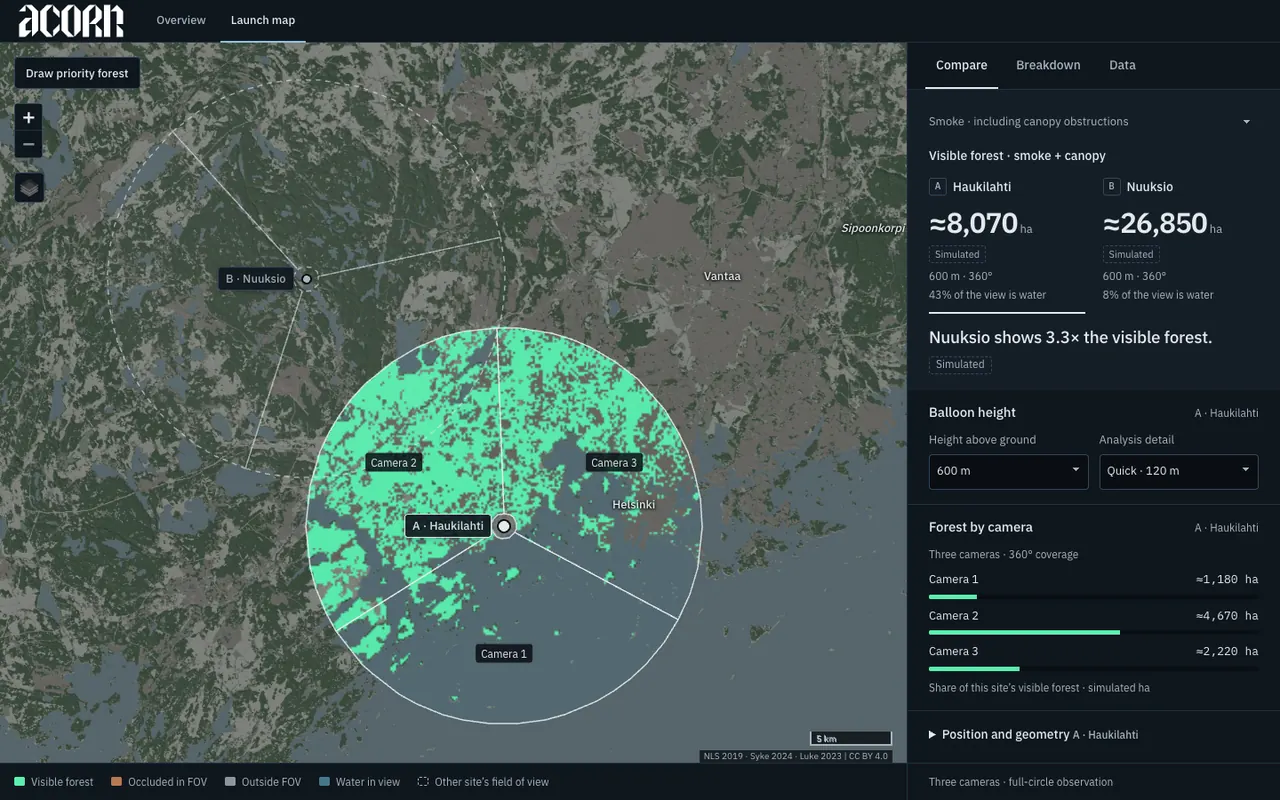
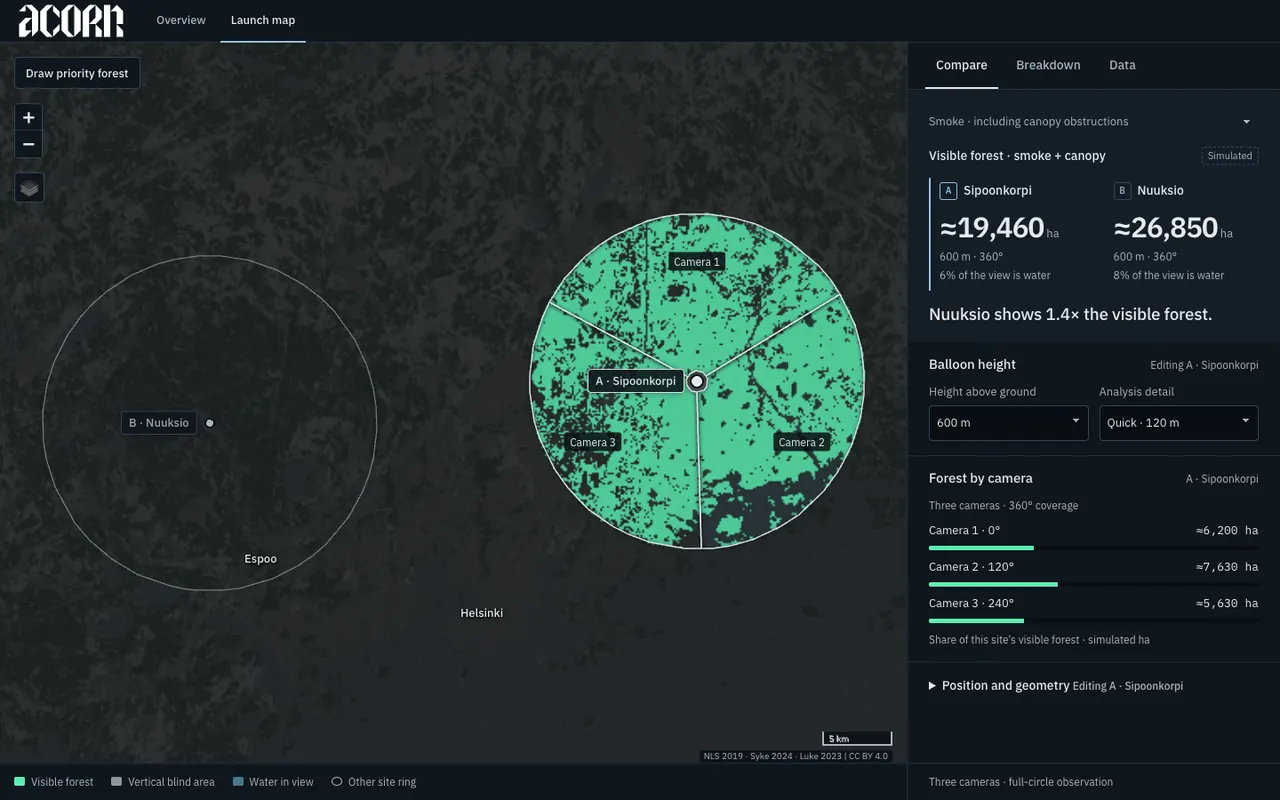
feat(map): clarify coverage hierarchy and mobile comparison

diff --git a/placement/static/app.js b/placement/static/app.js
@@ -30,7 +30,7 @@ function later(delay=600,indices=[selected]){markStale(indices);clearTimeout(tim
 
 // --- Controls ----------------------------------------------------------------
 function readControls(){if(!candidates.length)return;const c=candidates[selected];c.lat=+$('lat').value;c.lon=+$('lon').value;c.height=+$('height').value;c.resolution=$('resolution').value;c.max_range=+$('max-range').value*1000;c.smoke_height=+$('smoke-height').value;c.cameras.forEach(cam=>{cam.tilt=+$('tilt').value;cam.vfov=+$('vfov').value});}
-function showControls(){const c=candidates[selected];if(!c)return;$('lat').value=c.lat.toFixed(5);$('lon').value=c.lon.toFixed(5);$('height').value=String(c.height);$('resolution').value=c.resolution;$('max-range').value=c.max_range/1000;$('smoke-height').value=c.smoke_height;$('tilt').value=c.cameras[0].tilt;$('vfov').value=c.cameras[0].vfov;for(const id of ['settings-site','height-site'])$(id).textContent=letters[selected]+' · '+siteName(c);}
+function showControls(){const c=candidates[selected];if(!c)return;$('lat').value=c.lat.toFixed(5);$('lon').value=c.lon.toFixed(5);$('height').value=String(c.height);$('resolution').value=c.resolution;$('max-range').value=c.max_range/1000;$('smoke-height').value=c.smoke_height;$('tilt').value=c.cameras[0].tilt;$('vfov').value=c.cameras[0].vfov;for(const id of ['settings-site','height-site'])$(id).textContent='Editing '+letters[selected]+' · '+siteName(c);}
 function selectSite(i,reveal=true){if(i===selected||!candidates[i])return;readControls();selected=i;showControls();render();if(reveal)revealSite(i);}
 
 // --- Headline metric: total visible forest, or priority forest while a polygon is active.
@@ -42,7 +42,7 @@ function renderSummary(){
  const figures=$('headline-figures');figures.replaceChildren();
  candidates.forEach((c,i)=>{const r=results[i],m=r?.metrics?.[scenario],block=el('div','headline-site'+(i===selected?' selected':'')+(r&&dirty.has(i)?' stale':''));
   const b=el('button','headline-name');b.type='button';b.append(el('span','cand-letter mono',letters[i]),document.createTextNode(siteName(c)));b.setAttribute('aria-pressed',String(i===selected));b.addEventListener('click',()=>selectSite(i));block.append(b);
-  const shown=r?area(headlineValue(r),r.resolution_m):'—',n=addText(block,'div',shown,'headline-value'+(shown==='—'?' missing':''));if(shown!=='—'){addText(n,'small',' ha');localized(addText(n,'small','','simulation-label'),'Simulated','Simülasyon');}
+  const shown=r?area(headlineValue(r),r.resolution_m):'—',n=addText(block,'div',shown,'headline-value'+(shown==='—'?' missing':''));if(shown!=='—')addText(n,'small',' ha');
   if(r)localized(addText(block,'p','','headline-sub'),`${fmt(r.input.height)} m · 360°`,`${fmt(r.input.height)} m · 360°`);else localized(addText(block,'p','','headline-sub'),'Not computed','Hesaplanmadı');
   if(r&&priorityMode&&M.valid(m?.visible_forest_ha))localized(addText(block,'p','','headline-sub'),`of ${area(m.visible_forest_ha,r.resolution_m)} ha visible forest in total`,`toplam görünür orman ${area(m.visible_forest_ha,r.resolution_m)} ha`);
   if(r&&M.valid(M.share(m)))localized(addText(block,'p','','headline-sub'),`${M.percent(M.share(m),'en')} of the view is water`,`Görülen alanda su payı: ${M.percent(M.share(m),'tr')}`);
@@ -51,7 +51,6 @@ function renderSummary(){
  if(values.every(M.valid)){const winner=values[0]>=values[1]?0:1,other=1-winner,high=values[winner],low=values[other],what=priorityMode?['visible priority forest','görünür öncelikli orman']:['visible forest','görünür orman'];
   localized($('verdict'),high===low?`Both sites show the same ${what[0]}.`:low>0?`${siteName(candidates[winner])} shows ${fmt(high/low,1)}× the ${what[0]}.`:`${siteName(candidates[winner])} shows more ${what[0]}.`,high===low?`İki konumda da aynı ${what[1]} görünüyor.`:low>0?`${siteName(candidates[winner])} konumunda ${fmt(high/low,1)} kat daha fazla ${what[1]} görünüyor.`:`${siteName(candidates[winner])} konumunda daha fazla ${what[1]} görünüyor.`);
  }else localized($('verdict'),busy&&!lastError?'The comparison appears when both sites are calculated.':'No comparison yet. Recalculate both sites to compare.',busy&&!lastError?'Karşılaştırma iki konum da hesaplandığında görünür.':'Henüz karşılaştırma yok. Karşılaştırmak için iki konumu yeniden hesaplayın.');
- if(values.every(M.valid))$('verdict').append(el('span','tag tag-sim verdict-simulation',tr('Simulated','Simülasyon')));
  const smoke=r=>r?.metrics?.canopy_smoke,ranked=comparable?[0,1].filter(i=>M.valid(smoke(results[i])?.visible_forest_ha)).sort((a,b)=>(priorityMode?(smoke(results[b]).priority_visible_ha??-Infinity)-(smoke(results[a]).priority_visible_ha??-Infinity):0)||smoke(results[b]).visible_forest_ha-smoke(results[a]).visible_forest_ha):[];
  if(ranked.length===2){const order=ranked.map((i,k)=>`${k+1} ${siteName(candidates[i])}`).join(', ');localized($('ranking'),`Ranking by ${priorityMode?'visible priority forest':'total visible forest'} (smoke-target scenario): ${order}`,`Sıralama, ${priorityMode?'görünür öncelikli orman':'toplam görünür orman'} (duman hedefi senaryosu): ${order}`);}else $('ranking').textContent='';
  const stale=[...dirty].some(i=>results[i]),missing=[0,1].filter(i=>!results[i]).map(i=>siteName(candidates[i])).join(', ');document.body.classList.toggle('stale',stale);
@@ -64,8 +63,8 @@ function renderAccounting(){
  const box=$('accounting');box.replaceChildren();const rows=results.map((r,i)=>({i,r,a:r?C.accounting(r.metrics?.[scenario],M.round,M.blind,r.resolution_m):null}));const max=Math.max(1,...rows.map(x=>x.a?.total).filter(M.valid));
  rows.forEach(({i,r,a})=>{const row=el('div','acc-row'+(i===selected?' selected':''));const head=el('div','acc-head');head.append(el('span','cand-letter mono',letters[i]),el('span','acc-name',siteName(candidates[i])),el('span','acc-total mono',a?fmt(a.total):'—'));row.append(head);
   const bar=el('div','acc-bar');if(a){for(const [key,cls] of [['visible','visible'],['occluded','occluded'],['outside','outside']]){const seg=el('i',cls);seg.style.width=(a[key]/max*100)+'%';seg.title=key;bar.append(seg);}}else bar.classList.add('empty');row.append(bar);
-  const legend=el('div','acc-values');if(a){for(const [key,en,turkish] of [['visible','Visible','Görünür'],['occluded','Occluded','Perdelenmiş'],['outside','Outside FOV','Görüş dışında']]){const s=el('span');s.append(el('i','sw '+key));localized(s.appendChild(el('span')),`${en} ${fmt(a[key])}`,`${turkish} ${fmt(a[key])}`);legend.append(s);}}else localized(legend,r?'Split not available':'Not computed',r?'Ayrım yok':'Hesaplanmadı');row.append(legend);box.append(row)});
- localized(addText(box,'p','','small'),'Forest inside the range disk. Total = visible + occluded in FOV + outside FOV.','Menzil diski içindeki orman. Toplam = görünür + görüş içinde perdelenmiş + görüş dışında.');
+  const legend=el('div','acc-values');if(a){for(const [key,en,turkish] of [['visible','Visible','Görünür'],['occluded','Occluded','Perdelenmiş'],['outside','Vertical blind area','Görüş dışında']]){if(a[key]===0)continue;const s=el('span');s.append(el('i','sw '+key));localized(s.appendChild(el('span')),`${en} ${fmt(a[key])}`,`${turkish} ${fmt(a[key])}`);legend.append(s);}}else localized(legend,r?'Split not available':'Not computed',r?'Ayrım yok':'Hesaplanmadı');row.append(legend);box.append(row)});
+ localized(addText(box,'p','','small'),'Forest in range · visible and unseen','Menzil diski içindeki orman. Toplam = görünür + görüş içinde perdelenmiş + görüş dışında.');
 }
 function renderCameras(){
  const result=results[selected],box=$('camera-breakdown');box.replaceChildren();
@@ -74,7 +73,8 @@ function renderCameras(){
  for(let i=0;i<3;i++){
   const value=result?.camera_breakdown?.[i]?.metrics?.[scenario]?.visible_forest_ha;
   const row=el('div','camera-result'),head=el('div','camera-result-head');
-  head.append(el('span','',camName(i)),el('span','mono',M.valid(value)?area(value,result.resolution_m)+' ha':'—'));
+  const camera=result?.input?.cameras?.[i],label=camName(i)+(camera?' · '+fmt((result.input.heading+camera.yaw)%360)+'°':'');
+  head.append(el('span','',label),el('span','mono',M.valid(value)?area(value,result.resolution_m)+' ha':'—'));
   row.append(head);const bar=el('div','camera-result-bar'),fill=el('i','visible');
   fill.style.width=(M.valid(value)&&total>0?100*value/total:0)+'%';bar.append(fill);row.append(bar);box.append(row);
  }
@@ -82,16 +82,27 @@ function renderCameras(){
 }
 
 // --- Table and notes -----------------------------------------------------------
-function appendRow(body,label,unit,values,cls=''){const row=el('tr',cls);[label,unit,...values].forEach((v,i)=>{const td=el(i===0?'th':'td','',v);if(i===0)td.scope='row';if(i===1)td.className='unit';if(v==='—')td.title='Not computed';row.append(td)});body.append(row);}
+function appendRow(body,label,unit,values,cls=''){
+ // Hide only measured values that round to zero at both sites. Missing stays “—”.
+ if(values.every(value=>value==='0'))return;
+ const row=el('tr',cls),heading=el('th','',label);heading.scope='row';if(unit)heading.append(el('small','metric-unit',' · '+unit));row.append(heading);
+ values.forEach(value=>{const td=el('td','',value);if(value==='—')td.title='Not computed';row.append(td)});body.append(row);
+}
 function renderTable(){
- const headers=$('comparison').querySelectorAll('thead th');candidates.forEach((c,i)=>headers[i+2].textContent=letters[i]+' · '+siteName(c));const body=$('comparison').querySelector('tbody');body.replaceChildren();
+ for(const id of ['comparison','more-comparison']){const headers=$(id).querySelectorAll('thead th');candidates.forEach((c,i)=>headers[i+1].textContent=letters[i]+' · '+siteName(c));$(id).querySelector('tbody').replaceChildren();}
+ const body=$('comparison').querySelector('tbody'),more=$('more-comparison').querySelector('tbody');
  const metrics=results.map(r=>r?.metrics?.[scenario]),res=results.map(r=>r?.resolution_m),split=metrics.map((m,i)=>M.blind(m,res[i])),values=key=>metrics.map((m,i)=>fmt(M.round(m?.[key],res[i]))),other=key=>results.map(r=>fmt(M.round(key(r),r?.resolution_m)));
- localized($('precision'),res.includes(120)?'Quick 120 m figures are rounded to 10 ha; detailed 40 m to whole hectares.':'Rounded to whole hectares.',res.includes(120)?'Hızlı 120 m değerleri 10 ha’ya, ayrıntılı 40 m değerleri tam hektara yuvarlanır.':'Tam hektara yuvarlanmıştır.');
+ $('precision').textContent=res.includes(120)?'Quick figures rounded to 10 ha; detailed to whole hectares.':'Rounded to whole hectares.';
  appendRow(body,'Visible forest','ha',values('visible_forest_ha'),'main-metric');
- appendRow(body,'Blind total','ha',split.map(s=>fmt(s.total)),'band');appendRow(body,'Outside FOV','ha',split.map(s=>fmt(s.outside)),'sub');appendRow(body,'Occluded in FOV','ha',split.map(s=>fmt(s.occluded)),'sub');
- appendRow(body,'Water in view','ha',values('water_view_ha'));appendRow(body,'Water share','%',metrics.map(m=>fmt(M.share(m))));appendRow(body,'Visible priority forest','ha',other(r=>M.priorityValue(r,scenario)));
- appendRow(body,'Bare terrain · ground','ha',other(r=>r?.metrics?.bare_ground?.visible_forest_ha),'band');appendRow(body,'Canopy · ground','ha',other(r=>r?.metrics?.canopy_ground?.visible_forest_ha));
- for(let i=0;i<3;i++)appendRow(body,camName(i),'ha',other(r=>r?.camera_breakdown?.[i]?.metrics?.[scenario]?.visible_forest_ha));
+ appendRow(body,'Unseen forest','ha',split.map(s=>fmt(s.total)));
+ appendRow(body,'Water in view','ha',values('water_view_ha'));
+ appendRow(body,'Water share','%',metrics.map(m=>fmt(M.share(m))));
+ appendRow(more,'Vertical blind area','ha',split.map(s=>fmt(s.outside)));
+ appendRow(more,'Occluded','ha',split.map(s=>fmt(s.occluded)));
+ if(usePriority())appendRow(more,'Visible priority forest','ha',other(r=>M.priorityValue(r,scenario)));
+ appendRow(more,'Bare terrain · ground','ha',other(r=>r?.metrics?.bare_ground?.visible_forest_ha));
+ appendRow(more,'Canopy · ground','ha',other(r=>r?.metrics?.canopy_ground?.visible_forest_ha));
+ for(let i=0;i<3;i++)appendRow(more,camName(i),'ha',other(r=>r?.camera_breakdown?.[i]?.metrics?.[scenario]?.visible_forest_ha));
 }
 
 // Hide secondary place labels where they would collide with camera/site labels.
@@ -100,23 +111,36 @@ function arrangeLabels(){
  document.querySelectorAll('.map-label').forEach(e=>{e.style.visibility='visible';const b=e.getBoundingClientRect();if(obstacles.some(a=>b.left<a.right+4&&b.right>a.left-4&&b.top<a.bottom+4&&b.bottom>a.top-4))e.style.visibility='hidden';});
 }
 // --- Map -----------------------------------------------------------------------
+function refreshLegend(){
+ if(!map)return;
+ const metric=results[selected]?.metrics?.[scenario];
+ $('legend-occluded').hidden=!(metric?.occluded_forest_ha>0);
+ $('legend-outside').hidden=!(metric?.outside_fov_forest_ha>0);
+ $('legend-other').hidden=!results.some((r,i)=>r&&i!==selected&&map.getBounds().contains(L.latLng(r.input.lat,r.input.lon)));
+}
 function offset(lat,lon,bearing,metres){const b=bearing*Math.PI/180;return [lat+metres*Math.cos(b)/111320,lon+metres*Math.sin(b)/(111320*Math.cos(lat*Math.PI/180))];}
 function renderMap(){
  if(!map||!layers)return;layers.markers.clearLayers();layers.sectors.clearLayers();if(overlay){map.removeLayer(overlay);overlay=null;}
  const revision=++mapRenderRevision,result=results[selected];
- // The other site's field of view is deliberately dashed and unfilled: two coloured
- // coverage rasters would conceal each other where they overlap.
- results.forEach((r,index)=>{if(!r||index===selected)return;r.sectors?.forEach(s=>L.polygon(s.footprints[scenario].polygons,{color:token('--map-sector'),weight:1.5,opacity:.6,fillOpacity:.025,dashArray:'5 6',interactive:false,className:'other-footprint'}).addTo(layers.sectors));});
+ // One complete secondary perimeter; no camera seams or competing data raster.
+ results.forEach((r,index)=>{if(!r||index===selected)return;
+  const footprints=r.sectors.map(s=>s.footprints[scenario]);
+  for(let span=0;span<footprints[0].polygons.length;span++){
+   const perimeter=footprints.flatMap(f=>{const points=f.polygons[span];return points.slice(0,points.length/2)});
+   L.polygon(perimeter,{color:token('--text-2'),weight:1.25,opacity:.6,fillOpacity:0,interactive:false,className:'other-footprint'}).addTo(layers.sectors);
+  }
+ });
+ refreshLegend();
  if(result){const image=result.images?.[scenario];if(image){
    const rgb=value=>value.match(/[a-f0-9]{2}/gi).map(v=>parseInt(v,16));
    const source=Object.fromEntries(['visible','water'].map(k=>[k,rgb(token('--map-'+k))]));
    const display={visible:rgb(token('--display-visible')),water:rgb(token('--display-water'))};
-   MapDisplay.image(image.url,source,display).then(url=>{if(revision!==mapRenderRevision)return;overlay=L.imageOverlay(url,image.bounds,{opacity:1,interactive:false}).addTo(map);}).catch(()=>{if(revision!==mapRenderRevision)return;lastError='Map overlay expired. Recalculate both sites.';state(lastError,true);banner(lastError,'',true);});
+   MapDisplay.image(image.url,source,display).then(url=>{if(revision!==mapRenderRevision)return;overlay=L.imageOverlay(url,image.bounds,{opacity:.85,interactive:false,className:'coverage-map'}).addTo(map);}).catch(()=>{if(revision!==mapRenderRevision)return;lastError='Map overlay expired. Recalculate both sites.';state(lastError,true);banner(lastError,'',true);});
   }
   const input=result.input;
-  result.sectors?.forEach((s,i)=>{L.polygon(s.footprints[scenario].polygons,{color:token('--map-sector'),weight:1.5,opacity:.9,fillOpacity:0,interactive:false,className:'camera-footprint'}).addTo(layers.sectors);
+  result.sectors?.forEach((s,i)=>{L.polygon(s.footprints[scenario].polygons,{color:token('--map-sector'),weight:1.5,opacity:.95,fillOpacity:0,interactive:false,className:'camera-footprint'}).addTo(layers.sectors);
    const cam=input.cameras[i],radii=s.footprints[scenario].radii_m[0];if(!radii)return;
-   const at=offset(input.lat,input.lon,input.heading+cam.yaw,radii[0]+(radii[1]-radii[0])*.62),label=el('span','sector-label',camName(i));
+   const at=offset(input.lat,input.lon,input.heading+cam.yaw,radii[0]+(radii[1]-radii[0])*.7),label=el('span','sector-label',camName(i));
    L.marker(at,{interactive:false,keyboard:false,icon:L.divIcon({className:'sector-icon',html:label.outerHTML,iconSize:null})}).addTo(layers.sectors)});
  }
  candidates.forEach((c,i)=>{if(!Number.isFinite(c.lat)||!Number.isFinite(c.lon))return;const marker=L.circleMarker([c.lat,c.lon],{radius:i===selected?7:5,color:token('--bg-0'),weight:2,fillColor:i===selected?token('--text'):token('--text-2'),fillOpacity:1}).addTo(layers.markers);
@@ -167,7 +191,7 @@ function mapState(text){$('map-state').hidden=!text;if(text)$('map-state-text').
 async function init(){let initializingMap=null;if(ready)return;ready=true;mapState('Loading regional map…');setBusy(true);
  try{const response=await fetch('/api/config');if(!response.ok)throw Error();const config=await response.json();candidates=config.presets;dataInfo=config.data;showControls();renderSummary();if(!config.ready)throw Error();
   dataSummary();
-  const m=initializingMap=L.map('map',{attributionControl:true,zoomControl:false,zoomSnap:.5,zoomAnimation:false,fadeAnimation:false,markerZoomAnimation:false});
+  const m=initializingMap=L.map('map',{attributionControl:true,zoomControl:false,zoomSnap:.25,zoomAnimation:false,fadeAnimation:false,markerZoomAnimation:false});
   layers={markers:L.layerGroup(),sectors:L.layerGroup(),draw:L.layerGroup()};
   const DrawControl=L.Control.extend({onAdd(){const controls=document.querySelector('.map-toolbar');L.DomEvent.disableClickPropagation(controls);L.DomEvent.disableScrollPropagation(controls);return controls;}});
   new DrawControl({position:'topleft'}).addTo(m);L.control.zoom({zoomInTitle:'Zoom in',zoomOutTitle:'Zoom out',position:'topleft'}).addTo(m);m.attributionControl.setPrefix(false);m.attributionControl.addAttribution('NLS 2019 · Syke 2024 · Luke 2023 | CC BY 4.0');
@@ -175,9 +199,11 @@ async function init(){let initializingMap=null;if(ready)return;ready=true;mapSta
   const interior=await MapDisplay.extent('/maps/background.png'),nw=m.project(L.latLng(mapConfig.bounds[1][0],mapConfig.bounds[0][1]),0),se=m.project(L.latLng(mapConfig.bounds[0][0],mapConfig.bounds[1][1]),0);
   const corner=(x,y)=>m.unproject(L.point(nw.x+(se.x-nw.x)*x,nw.y+(se.y-nw.y)*y),0);
   const safeBounds=L.latLngBounds(corner(interior.left,interior.bottom),corner(interior.right,interior.top));
-  function constrainView(){const minimum=Math.ceil(m.getBoundsZoom(safeBounds,true)*2)/2;m.stop();m.setMinZoom(minimum);if(Number.isFinite(m.getZoom())){if(m.getZoom()<minimum)m.setZoom(minimum,{animate:false});m.panInsideBounds(safeBounds,{animate:false});}}
+  function constrainView(){const minimum=Math.ceil(m.getBoundsZoom(safeBounds,true)*4)/4-.25;m.stop();m.setMinZoom(minimum);if(Number.isFinite(m.getZoom())){if(m.getZoom()<minimum)m.setZoom(minimum,{animate:false});m.panInsideBounds(safeBounds,{animate:false});}}
   m.options.maxBoundsViscosity=1;m.setMaxBounds(safeBounds);constrainView();
-  m.fitBounds(candidates.map(c=>[c.lat,c.lon]),{padding:[60,60],maxZoom:Math.max(m.getMinZoom(),matchMedia('(max-width:760px)').matches?9:10),animate:false});
+  const phone=matchMedia('(max-width:760px)').matches;
+  const initialBounds=phone?L.latLng(candidates[0].lat,candidates[0].lon).toBounds(2*candidates[0].max_range):L.latLngBounds(candidates.flatMap(c=>[0,90,180,270].map(bearing=>offset(c.lat,c.lon,bearing,c.max_range))));
+  m.fitBounds(initialBounds,{padding:phone?[28,28]:[44,44],maxZoom:11,animate:false});
   const background=L.imageOverlay('/maps/background.png',mapConfig.bounds,{className:'base-map'}).addTo(m);const forests=L.imageOverlay('/maps/forest.png',mapConfig.bounds,{opacity:.45}),waters=L.imageOverlay('/maps/water.png',mapConfig.bounds,{opacity:.45});
   L.control.layers({'Local terrain map':background},{'Forest highlight':forests,'Water highlight':waters},{collapsed:true,position:'topleft'}).addTo(m);L.control.scale({imperial:false,position:'bottomright'}).addTo(m);
   for(const layer of Object.values(layers))layer.addTo(m);
@@ -185,8 +211,9 @@ async function init(){let initializingMap=null;if(ready)return;ready=true;mapSta
   labels.filter(([name])=>!candidates.some(c=>siteName(c)===name)).forEach(([name,lat,lon,forest])=>L.marker([lat,lon],{interactive:false,keyboard:false,icon:L.divIcon({className:'map-label'+(forest?' forest-label':''),html:name,iconSize:[100,20]})}).addTo(m));
   m.on('click',e=>{if(drawing){drawPoints.push(e.latlng);layers.draw.clearLayers();L.polyline(drawPoints,{color:token('--accent'),weight:2}).addTo(layers.draw);drawPoints.forEach(p=>L.circleMarker(p,{radius:4,color:token('--accent'),fillColor:token('--bg-0'),fillOpacity:1}).addTo(layers.draw));return;}readControls();candidates[selected].lat=e.latlng.lat;candidates[selected].lon=e.latlng.lng;showControls();run(false)});
   m.on('dblclick',()=>{if(drawing)finishDraw()});
-  m.on('moveend zoomend',arrangeLabels);
+  m.on('moveend zoomend',()=>{arrangeLabels();refreshLegend()});
   new ResizeObserver(()=>{m.invalidateSize({pan:false});constrainView();}).observe($('map'));
+  new ResizeObserver(([entry])=>{document.documentElement.style.setProperty('--map-legend-height',Math.ceil(entry.borderBoxSize?.[0]?.blockSize||entry.contentRect.height)+'px');}).observe(document.querySelector('.legend'));
   map=m;mapState('');render();await run(true);
  }catch{ready=false;const failedMap=map||initializingMap;if(failedMap){const controls=document.querySelector('.map-toolbar');failedMap.remove();if(controls)document.querySelector('.map-shell').append(controls);}map=null;layers=null;mapState('Could not load regional map data. Use Recalculate both sites to retry.');lastError='Could not load regional map data. Use Recalculate both sites to retry.';status(lastError,true);banner(lastError,'',true);renderSummary();setBusy(false);}}
 

diff --git a/placement/static/index.html b/placement/static/index.html
@@ -14,7 +14,7 @@
   <div id="map-state" role="status"><span class="loader" aria-hidden="true"></span><span id="map-state-text">Loading regional map…</span></div>
   <div class="map-toolbar"><button id="draw">Draw priority forest</button><button id="finish" class="primary" hidden>Finish area</button><button id="clear-priority" hidden>Clear area</button></div>
   <p id="draw-help" class="map-help" hidden></p>
-  <div class="legend" aria-label="Map legend"><span><i class="visible"></i>Visible forest</span><span><i class="occluded"></i>Occluded in FOV</span><span><i class="outside"></i>Outside FOV</span><span><i class="water"></i>Water in view</span><span><i class="other-site"></i>Other site’s field of view</span></div>
+  <div class="legend" aria-label="Map legend"><span><i class="visible"></i>Visible forest</span><span id="legend-occluded"><i class="occluded"></i>Occluded</span><span id="legend-outside"><i class="outside"></i>Vertical blind area</span><span><i class="water"></i>Water in view</span><span id="legend-other"><i class="other-site"></i>Other site ring</span></div>
  </section>
  <aside id="result-summary" class="panel" aria-label="Candidate results" aria-busy="true">
   <div class="tabs" role="tablist" aria-label="Views"><button role="tab" id="tab-compare" aria-controls="view-compare" aria-selected="true">Compare</button><button role="tab" id="tab-breakdown" aria-controls="view-breakdown" aria-selected="false" tabindex="-1">Breakdown</button><button role="tab" id="tab-data" aria-controls="view-data" aria-selected="false" tabindex="-1">Data</button></div>
@@ -22,7 +22,7 @@
   <div id="view-compare" class="view" role="tabpanel" aria-labelledby="tab-compare">
    <section class="answer">
     <label class="metric-picker"><span class="visually-hidden">Target shown on map</span><select id="scenario"><option value="canopy_smoke">Smoke · including canopy obstructions</option><option value="canopy_ground">Ground · including canopy obstructions</option><option value="bare_smoke">Smoke · bare-terrain comparison</option><option value="bare_ground">Ground · bare-terrain comparison</option></select></label>
-    <p id="result-title" class="answer-label">Visible forest · smoke + canopy</p>
+    <div class="answer-heading"><p id="result-title" class="answer-label">Visible forest · smoke + canopy</p><span class="simulation-label">Simulated</span></div>
     <div id="headline-figures" class="sites"><div class="site skeleton"></div><div class="site skeleton"></div></div>
     <p id="verdict" class="verdict">The comparison appears when both sites are calculated.</p>
     <p id="ranking" class="visually-hidden"></p>
@@ -55,7 +55,8 @@
    </section>
    <section class="block dense">
     <div class="block-head"><h2>Visibility breakdown · simulated ha</h2></div>
-    <div class="table-wrap"><table id="comparison" class="grid"><caption><span id="precision">Rounded to whole hectares.</span> — = not computed. Blind total = outside FOV + occluded in FOV.</caption><thead><tr><th scope="col">Metric</th><th scope="col" class="unit">Unit</th><th scope="col">Haukilahti</th><th scope="col">Nuuksio</th></tr></thead><tbody></tbody></table></div>
+    <div class="table-wrap"><table id="comparison" class="grid"><caption><span id="precision">Rounded to whole hectares.</span> — = not computed.</caption><thead><tr><th scope="col">Metric</th><th scope="col">A · Sipoonkorpi</th><th scope="col">B · Nuuksio</th></tr></thead><tbody></tbody></table></div>
+    <details class="more-metrics"><summary>More metrics</summary><div class="table-wrap"><table id="more-comparison" class="grid"><caption>Simulated hectares. Unseen forest = vertical blind area + occluded.</caption><thead><tr><th scope="col">Metric</th><th scope="col">A · Sipoonkorpi</th><th scope="col">B · Nuuksio</th></tr></thead><tbody></tbody></table></div></details>
    </section>
   </div>
 
@@ -65,7 +66,7 @@
     <p>Three cameras on the faces of a triangular housing watch the full circle. Each camera covers a 120° sector.</p>
     <p>Visibility includes terrain, canopy and Earth curvature. Smoke targets are 50 m above the canopy by default.</p>
     <p>Ring guides follow the selected vertical geometry on a level target plane through the launch point. Map cells follow the local terrain and canopy heights.</p>
-    <p>Camera 1 starts at the preset module heading; Cameras 2 and 3 are 120° apart. Bearings use EPSG:3067 grid north.</p>
+    <p>Default camera directions: Camera 1 at 0° (north), Camera 2 at 120°, Camera 3 at 240°. Bearings use EPSG:3067 grid north.</p>
     <p class="note"><span data-brand-tagline></span></p>
     <p class="note">NLS Finland / Syke / Luke · CC BY 4.0 · <span data-brand-name></span> · built by team <span data-brand-team></span> · <span data-brand-event></span> · <span data-brand-challenge></span> challenge</p>
    </section>

diff --git a/placement/static/style.css b/placement/static/style.css
@@ -35,13 +35,13 @@
 .occluded{background:var(--map-occluded)}
 .overlap{background:var(--map-overlap)}
 .water{background:var(--display-water)}
-.other-site{border:1px dashed var(--text-2);background:none}
+.other-site{border:1px solid var(--text-2);border-radius:50%!important;background:none}
 
 .drawing #map{cursor:crosshair}
 
 .leaflet-container{background:var(--map-background);font:12px var(--font)}
 
-.leaflet-container .base-map{filter:saturate(.65) contrast(1.05) brightness(.55)}
+.leaflet-container .base-map{filter:saturate(.35) contrast(.85) brightness(.32) blur(.6px);opacity:.6}
 
 .leaflet-bar,.leaflet-control-layers{border:1px solid var(--line-strong)!important;border-radius:4px!important;box-shadow:none!important;background:var(--bg-1)}
 
@@ -97,8 +97,9 @@
 
 .sites{display:grid;grid-template-columns:1fr 1fr;gap:20px}
 .site.skeleton{height:100px}
-.headline-site{min-width:0;padding:0 0 10px;border-bottom:2px solid transparent}
-.headline-site.selected{border-bottom-color:var(--text)}
+.headline-site{min-width:0;padding:0 0 8px 10px;border-left:2px solid transparent}
+.headline-site.selected{border-left-color:var(--accent)}
+.headline-site.selected .cand-letter{color:var(--accent);border-color:var(--accent)}
 
 .headline-name{justify-content:flex-start;gap:7px;min-height:30px;padding:0;border:0;background:transparent;font-size:14px}
 .headline-name:hover{background:transparent;color:var(--accent)}
@@ -137,7 +138,11 @@ label{display:flex;flex-direction:column;gap:6px;font-size:13px}
 
 .table-wrap{overflow:auto}
 table.grid{font-size:12px}
-table.grid th,table.grid td{padding:8px 5px;white-space:normal}
+table.grid th,table.grid td{padding:10px 5px;min-height:44px;height:44px;white-space:normal}
+table.grid th:first-child{width:46%}
+.metric-unit{font-size:11px;color:var(--text-2);font-weight:400}
+.more-metrics{border-top:1px solid var(--line);margin-top:16px}
+.more-metrics summary{min-height:44px;align-content:center;font-size:13px;cursor:pointer}
 table.grid td{white-space:nowrap}
 table.grid tr.main-metric td,table.grid tr.main-metric th{font-weight:600;color:var(--text)}
 table.grid tr.band>*{border-top:1px solid var(--line-strong)}
@@ -160,13 +165,16 @@ table.grid td.unit{font-family:var(--font);color:var(--text-2)}
 .sites{gap:12px}
 }
 
-@media(max-width:760px){:root{--map-legend-height:92px}
+@media(max-width:760px){:root{--map-legend-height:64px}
 .map-app{display:block;height:auto;overflow:visible}
-.shell-nav{display:none}
+.map-app .shell-nav{display:flex;margin-left:auto;gap:2px}
+.map-app .shell-nav a{padding:0 8px;min-height:44px;font-size:12px}
+.map-app .shell-bar{gap:12px;padding:0 12px}
+.map-app .shell-spacer{display:none}
 .workspace{display:flex;flex-direction:column}
-.map-shell{height:52dvh;min-height:350px}
+.map-shell{height:58dvh;min-height:480px;max-height:560px}
 #map{bottom:var(--map-legend-height)}
-.legend{min-height:92px;gap:6px 14px;font-size:11px;padding:10px 12px}
+.legend{display:grid;grid-template-columns:1fr 1fr;min-height:0;gap:6px 12px;font-size:12px;padding:10px 12px}
 .leaflet-left .leaflet-control{margin-left:12px}
 .map-toolbar button{min-height:40px}
 .panel{border-left:0}
@@ -182,8 +190,11 @@ table.grid td.unit{font-family:var(--font);color:var(--text-2)}
 .headline-name{min-height:32px}
 }
 
-.headline-value .simulation-label{display:table;width:fit-content;font-size:11px;letter-spacing:0;line-height:1.5;margin-top:6px;padding:1px 6px;border:1px dashed var(--line-strong);border-radius:3px;color:var(--text-2)}
-.verdict-simulation{display:table;margin-top:8px;letter-spacing:0;font-weight:400}
+.answer-heading{display:flex;align-items:center;justify-content:space-between;gap:8px;margin:12px 0 14px}
+.answer-heading .answer-label{margin:0}
+.simulation-label{font-size:11px;line-height:1.5;padding:1px 6px;border:1px dashed var(--line-strong);border-radius:3px;color:var(--text-2);flex:none}
+.camera-footprint{filter:drop-shadow(0 1px 2px #090e13)}
+@media(max-width:479px){.sector-label,.map-label{display:none}.sites{gap:12px}.headline-site{padding-left:8px}}
 
 /* Fit the full camera breakdown and geometry disclosure in the desktop dock. */
 #view-compare .block{padding-top:16px;padding-bottom:16px}

diff --git a/placement/scripts/check_language.js b/placement/scripts/check_language.js
@@ -2,7 +2,7 @@
 // and requests ?lang=tr&language=tr before running this check.
 (async () => {
  const text=document.body.innerText;
- const expected=location.pathname==='/map'?'Occluded in FOV':'Watch the forest.';
+ const expected=location.pathname==='/map'?'Visible forest':'Watch the forest.';
  if(!text.includes(expected))throw Error('Missing rendered English text: '+expected);
  if(document.documentElement.lang!=='en')throw Error('Page language must be English');
  if(document.querySelector('.language'))throw Error('Language toggle remains');

diff --git a/placement/tests/test_integration.py b/placement/tests/test_integration.py
@@ -23,10 +23,11 @@ def test_real_sources_and_complete_grid():
             assert ((g['forest']+g['water'])<=1.00001).all()
 
 def test_presets_water_and_accounting(preset_results):
-    coast,inland=preset_results
-    assert coast['active_cameras']==[0,1,2] and inland['active_cameras']==[0,1,2]
-    assert coast['metrics']['canopy_smoke']['water_share_pct']>40
-    assert inland['metrics']['canopy_smoke']['water_share_pct']<20
+    assert [c.heading for c in PRESETS]==[0,0]
+    for result in preset_results:
+        assert result['active_cameras']==[0,1,2]
+        assert result['metrics']['canopy_smoke']['water_share_pct']<20
+        assert result['metrics']['canopy_smoke']['visible_forest_ha']>15000
     for r in preset_results:
         assert not r['range_clipped'] and r['unknown_forest_ha']==0
         assert r['unknown_elevation_in_window'] is False

diff --git a/placement/forest_placement/models.py b/placement/forest_placement/models.py
@@ -49,6 +49,6 @@ class Candidate(BaseModel):
         return self
 
 PRESETS = [
-    Candidate(name="Coast · Haukilahti", lon=24.773, lat=60.159, heading=180),
-    Candidate(name="Inland · Nuuksio", lon=24.557, lat=60.293, heading=20),
+    Candidate(name="Forest · Sipoonkorpi", lon=25.19, lat=60.32, heading=0),
+    Candidate(name="Inland · Nuuksio", lon=24.557, lat=60.293, heading=0),
 ]
